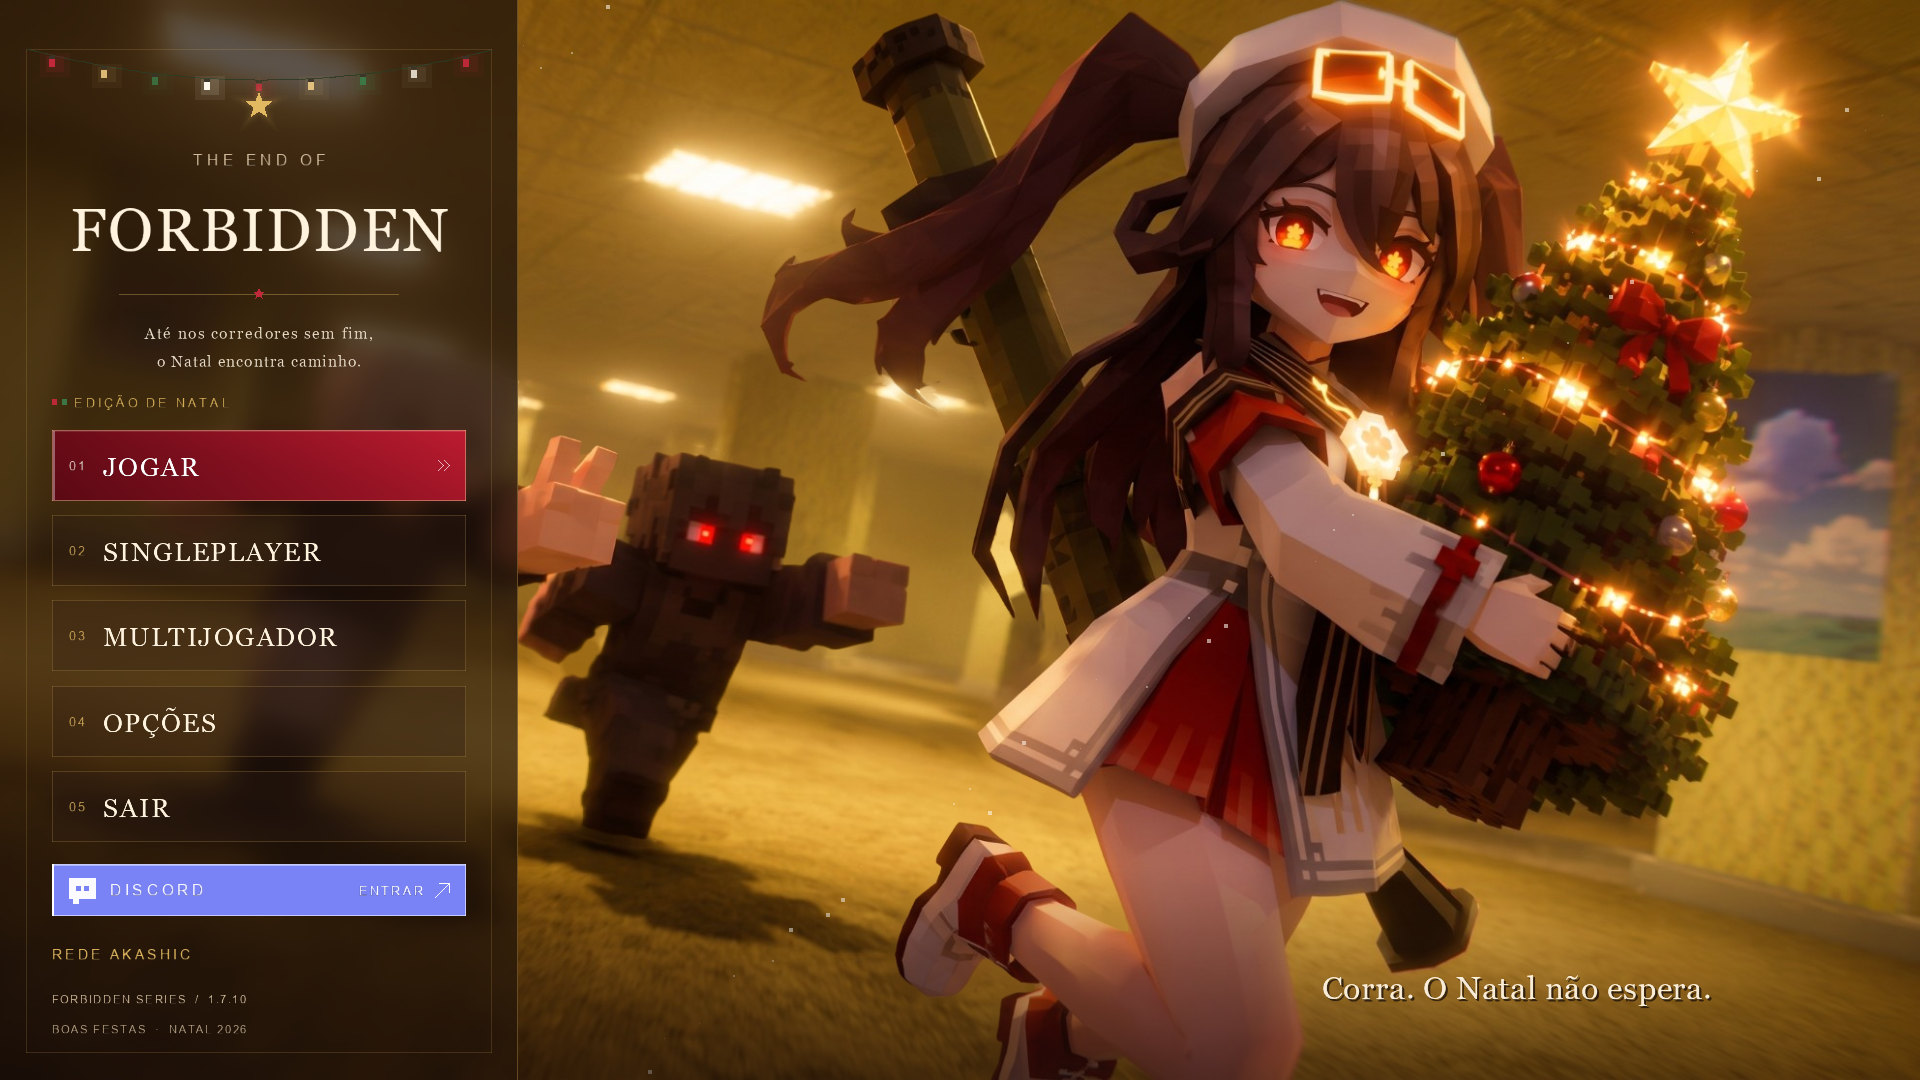
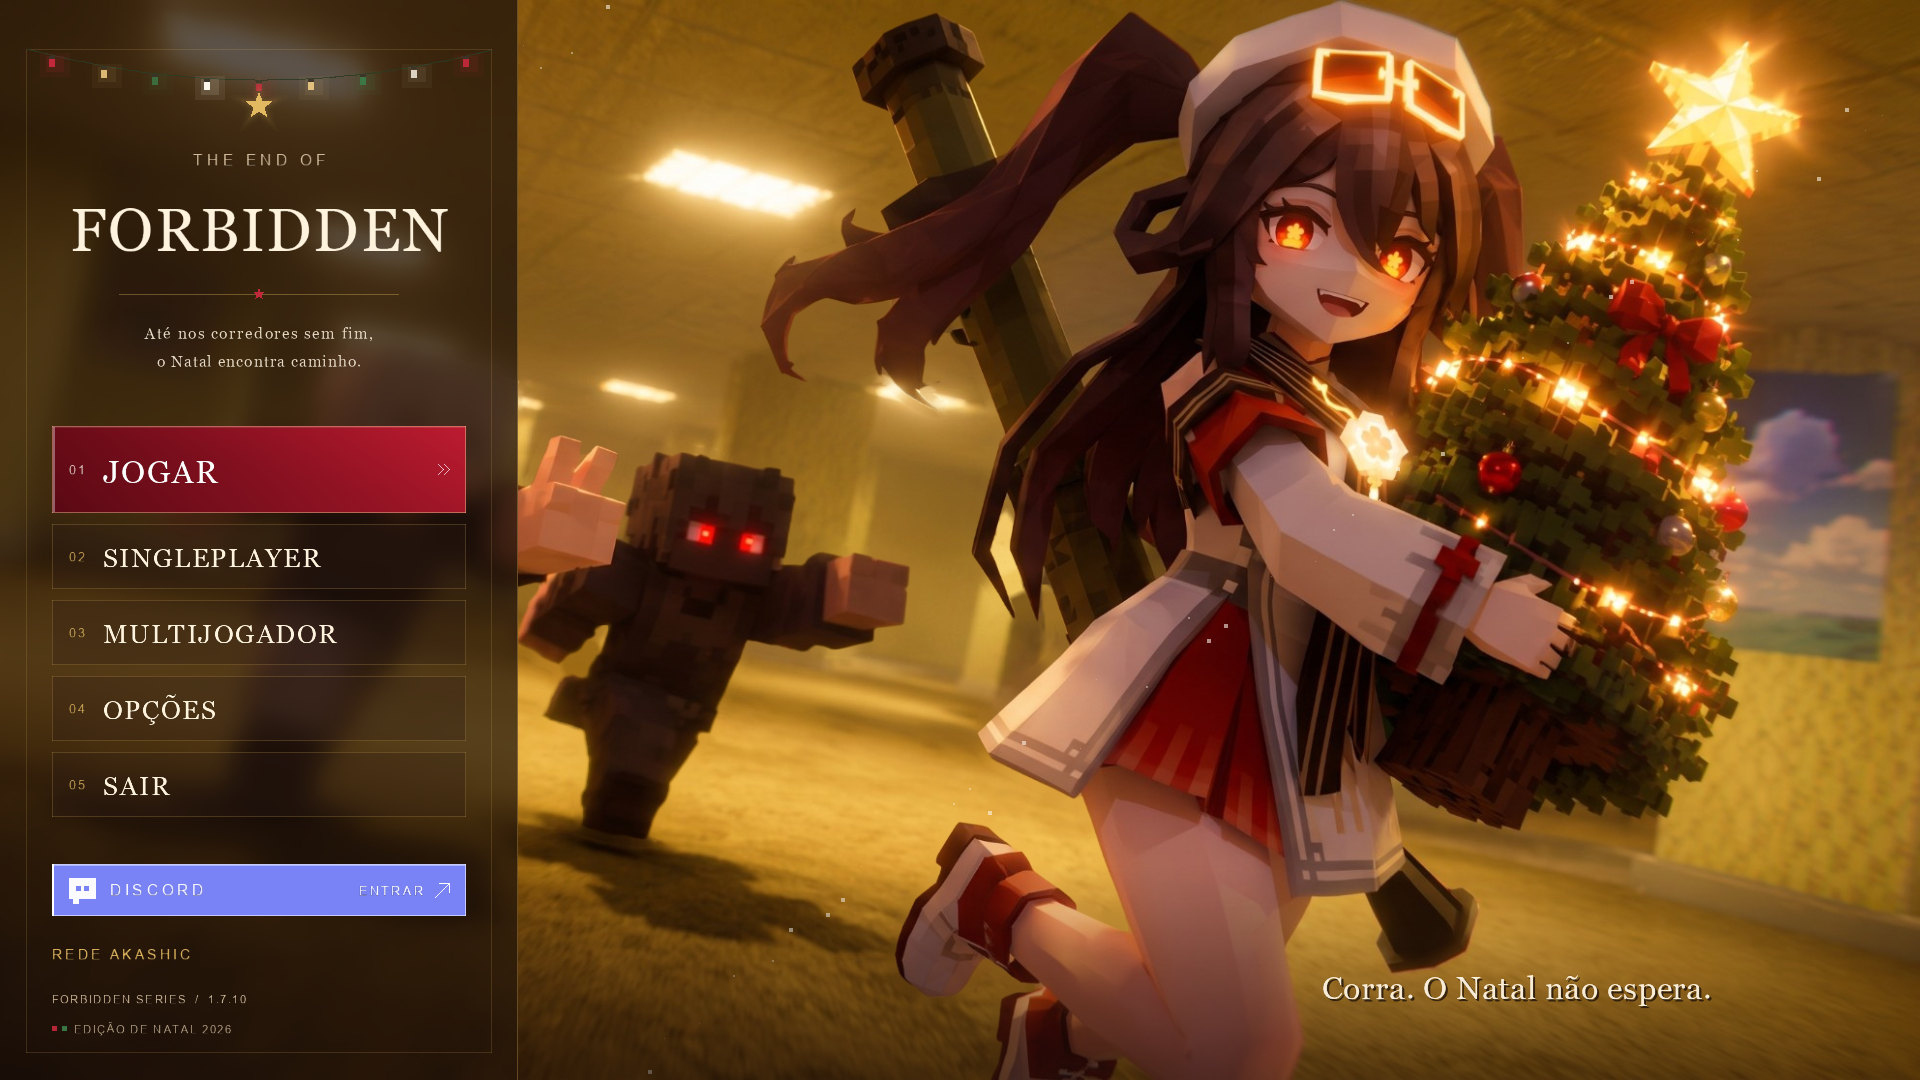
feat(menu): grupo de botoes centralizado e Jogar mais alto (alpha.8)
[DOC] Ajustes do dono (17/11/2026), escolhidos entre duas amostras:
- opcao B: os 5 botoes ficam centralizados no espaco livre entre o fim do
  lema (35% da altura; linha do header quando o lema nao aparece) e o botao
  do Discord, que nao muda de lugar;
- Jogar mais alto (8,1% contra 6,0%, texto 23 contra 19), incluido no
  calculo da centralizacao;
- "EDICAO DE NATAL" vai para o rodape ("EDICAO DE NATAL 2026").

PixelLayout: groupUpperBound/groupHeight/groupTop/heroHeight/buttonHeight(i);
a linha do header passa a ser desenhada em headerRuleY().

[LOG] PixelLayoutTests 1986 checagens (centralizacao <= 1,5 px em 10
resolucoes, Jogar mais alto, folga acima do grupo); nucleo e 11 suites com
failures=0; render com -Xlint:all -Werror; amostras atualizadas em
evidence/alpha8-multi-discord/.

Claude-Session: https://claude.ai/code/session_01ELhLZwBwQkuFCEsUJ3xDWT

diff --git a/src/main/java/br/com/redeakashic/cinematic/core/PixelLayout.java b/src/main/java/br/com/redeakashic/cinematic/core/PixelLayout.java
@@ -8,15 +8,36 @@ public final class PixelLayout {
         if(w<1||h<1||w>32768||h>32768)throw new IllegalArgumentException("Unsupported surface");
         width=w;height=h;sidebar=(int)Math.round(w*.27);unit=Math.max(.50,Math.min(2.1,Math.min(w/1366.0,h/768.0)));
     }
+    /**
+     * Fractions of the height: header rule under FORBIDDEN, end of the two-line tagline (shown when h>=600),
+     * button height, the taller Jogar button, the gap between buttons, and the Discord top.
+     */
+    static final double HEADER_RULE=.272,TAGLINE_END=.350,BUTTON=.060,HERO=.081,GAP=.010,DISCORD_TOP=.800;
     public double buttonX(){return Math.round(sidebar*.10);}
-    public double buttonY(int i){if(i<0||i>=MAIN)throw new IllegalArgumentException("index");return Math.round(height*.398+i*height*.079);}
+    /** Header rule (divider under the title); drawn by the renderer at exactly this row. */
+    public double headerRuleY(){return Math.round(height*HEADER_RULE);}
+    /** Upper bound of the free space: the end of the tagline when it is shown, else the header rule. */
+    public double groupUpperBound(){return height>=600?Math.round(height*TAGLINE_END):headerRuleY();}
+    /** Height of the five-button group (Jogar taller than the rest). */
+    public double groupHeight(){double gap=Math.round(height*GAP);return heroHeight()+(MAIN-1)*(gap+buttonHeight());}
+    /** Top of the group, centered in the free space between the tagline (or header rule) and the Discord button (owner choice B, 17/11). */
+    public double groupTop(){return Math.round(groupUpperBound()+(discordY()-groupUpperBound()-groupHeight())/2);}
+    public double buttonY(int i){
+        if(i<0||i>=MAIN)throw new IllegalArgumentException("index");
+        double gap=Math.round(height*GAP);
+        return i==0?groupTop():groupTop()+heroHeight()+gap+(i-1)*(buttonHeight()+gap);
+    }
     public double buttonWidth(){return sidebar-2*buttonX();}
-    public double buttonHeight(){return Math.max(1,Math.round(height*.066));}
+    /** Regular main-button height (Singleplayer..Sair). */
+    public double buttonHeight(){return Math.max(1,Math.round(height*BUTTON));}
+    /** The Jogar button is taller, to stand out. */
+    public double heroHeight(){return Math.max(1,Math.round(height*HERO));}
+    public double buttonHeight(int i){if(i<0||i>=MAIN)throw new IllegalArgumentException("index");return i==0?heroHeight():buttonHeight();}
     /** Compact Discord button: same column, shorter, between the last main button and the footer. */
-    public double discordY(){return Math.round(height*.800);}
+    public double discordY(){return Math.round(height*DISCORD_TOP);}
     public double discordHeight(){return Math.max(1,Math.round(height*.048));}
     public double targetY(int i){if(i<0||i>=TARGETS)throw new IllegalArgumentException("index");return i==DISCORD?discordY():buttonY(i);}
-    public double targetHeight(int i){if(i<0||i>=TARGETS)throw new IllegalArgumentException("index");return i==DISCORD?discordHeight():buttonHeight();}
+    public double targetHeight(int i){if(i<0||i>=TARGETS)throw new IllegalArgumentException("index");return i==DISCORD?discordHeight():buttonHeight(i);}
     public int hit(double x,double y){
         if(!Double.isFinite(x)||!Double.isFinite(y))return -1;
         if(x<buttonX()||x>=buttonX()+buttonWidth())return -1;

diff --git a/src/main/java/br/com/redeakashic/cinematic/render/NativeVisuals.java b/src/main/java/br/com/redeakashic/cinematic/render/NativeVisuals.java
@@ -80,22 +80,22 @@ public final class NativeVisuals implements AutoCloseable {
         star(c,h*.098,10*s,GOLD,.95,motion?.85+.15*Math.sin(age*1.1):.9);
         center("THE END OF",c,h*.140,11*s,p*.80,false,3*s,MUTED,1);
         center("FORBIDDEN",c,h*.180,43*s,p*.86,true,1.3*s,IVORY,1);
-        rect(p*.23,h*.272,p*.54,1,GOLD,.35);star(c,h*.272,4.5*s,RED,.95,0);
+        double rule=layout.pixels.headerRuleY();rect(p*.23,rule,p*.54,1,GOLD,.35);star(c,rule,4.5*s,RED,.95,0);
         if(h>=600){center("Até nos corredores sem fim,",c,h*.300,11*s,p*.83,true,1*s,IVORY,.88);center("o Natal encontra caminho.",c,h*.326,11*s,p*.83,true,.7*s,IVORY,.88);}
-        rect(p*.10,h*.366+3*s,4*s,4*s,RED,.9);rect(p*.10+7*s,h*.366+3*s,4*s,4*s,PINE,.95);
-        text("EDIÇÃO DE NATAL",p*.10+16*s,h*.366,9*s,p*.7,false,2*s,GOLD,.88);
         String[] actions={"JOGAR","SINGLEPLAYER","MULTIJOGADOR","OPÇÕES","SAIR"};
         for(int i=0;i<PixelLayout.MAIN;i++){
-            double x=layout.pixels.buttonX(),y=layout.pixels.buttonY(i),bw=layout.pixels.buttonWidth(),bh=layout.pixels.buttonHeight(),hot=Math.max(0,Math.min(1,highlights[i]));
+            double x=layout.pixels.buttonX(),y=layout.pixels.buttonY(i),bw=layout.pixels.buttonWidth(),bh=layout.pixels.buttonHeight(i),hot=Math.max(0,Math.min(1,highlights[i]));
             if(i==0)HeroButton.draw(x,y,bw,bh,age,hot,playPressAge,visibility,motion&&heroAnimation);
             else{rect(x,y,bw,bh,SLATE,(.30+hot*.40)*visibility);outline(x,y,bw,bh,GOLD,(.20+hot*.50)*visibility);if(hot>.005){rect(x,y,2,bh,RED,hot*visibility);rect(x+2,y,1,bh,GOLD,hot*.6*visibility);}}
             text("0"+(i+1),x+12*s,y+(bh-10*s)/2,9*s,24*s,false,1*s,i==0?0xFFF5E8:GOLD,visibility*.88);
-            text(actions[i],x+36*s,y+(bh-19*s)/2-1,19*s,bw-(i==0?67:48)*s,true,1*s,i==0?0xFFFFFF:IVORY,visibility);
+            double label=i==0?23*s:19*s;
+            text(actions[i],x+36*s,y+(bh-label)/2-1,label,bw-(i==0?67:48)*s,true,1*s,i==0?0xFFFFFF:IVORY,visibility);
         }
         discord(layout.pixels.buttonX(),layout.pixels.discordY(),layout.pixels.buttonWidth(),layout.pixels.discordHeight(),s,Math.max(0,Math.min(1,highlights[PixelLayout.DISCORD])),visibility);
         text("REDE AKASHIC",p*.10,h*.877,10*s,p*.80,false,2*s,GOLD,1);
         text("FORBIDDEN SERIES  /  1.7.10",p*.10,h*.919,8*s,p*.80,false,1*s,MUTED,1);
-        text("BOAS FESTAS  ·  NATAL 2026",p*.10,h*.947,8*s,p*.80,false,1*s,MUTED,.85);
+        rect(p*.10,h*.947+2*s,4*s,4*s,RED,.9);rect(p*.10+7*s,h*.947+2*s,4*s,4*s,PINE,.95);
+        text("EDIÇÃO DE NATAL 2026",p*.10+16*s,h*.947,8*s,p*.74,false,1*s,MUTED,.85);
         shadeV(p,h*.80,w-p,h*.20,INK,0,.55);
         quote("Corra. O Natal não espera.",w*.79,h*.897,23*s,w*.37,.3*s,s,1);
     }

diff --git a/src/test/java/br/com/redeakashic/cinematic/core/PixelLayoutTests.java b/src/test/java/br/com/redeakashic/cinematic/core/PixelLayoutTests.java
@@ -12,6 +12,12 @@ public final class PixelLayoutTests {
                 check(i==PixelLayout.TARGETS-1||y+h<p.targetY(i+1),"nonoverlap");
                 check(i==PixelLayout.DISCORD||p.targetY(i)==p.buttonY(i),"main buttons");}
             check(p.discordHeight()<p.buttonHeight()||p.height<40,"discord compact");
+            double above=p.buttonY(0)-p.groupUpperBound(),below=p.discordY()-(p.buttonY(PixelLayout.MAIN-1)+p.buttonHeight(PixelLayout.MAIN-1));
+            check(Math.abs(above-below)<=1.5,"group centered in the free space "+s[0]+"x"+s[1]+" "+above+"/"+below);
+            check(above>=p.height*.02,"breathing room above the group");
+            check(p.groupUpperBound()==(p.height>=600?Math.round(p.height*.350):p.headerRuleY()),"upper bound: tagline end or header rule");
+            check(p.heroHeight()>p.buttonHeight()*1.25||p.height<60,"Jogar taller");
+            check(Math.abs(p.groupHeight()-(p.buttonY(PixelLayout.MAIN-1)+p.buttonHeight(PixelLayout.MAIN-1)-p.buttonY(0)))<1e-9,"group height consistent");
             check(p.hit(Double.NaN,1)==-1,"NaN input");check(p.hit(-1,-1)==-1,"outside input");
         }
         for(int w=640;w<=3840;w+=73)for(int h=480;h<=2160;h+=97){PixelLayout p=new PixelLayout(w,h);check(p.buttonX()+p.buttonWidth()<=p.sidebar,"sweep no overflow");check(p.discordY()+p.discordHeight()<h*.87,"sweep footer safe");}

diff --git a/docs/CHANGELOG.md b/docs/CHANGELOG.md
@@ -9,7 +9,7 @@ Detalhes e evidências por versão: `CRONOLOGIA.md` §2–3. Hashes: `LINEAGE.md
 - O menu continua sem URL/comando arbitrário: `MenuAction` é fechado e o único link é a constante testada.
 - Telas de multijogador (`GuiMultiplayer`, `GuiScreenAddServer`, `GuiScreenServerList`) entram nas allow-lists exatas do tema e da BGM do menu.
 - Correção: a tela "Conectando" com tema mostrava sempre `br2.xmxcloud.net:10511`; agora mostra o servidor que está sendo de fato conectado (`Minecraft.func_147104_D`), o que importa para servidores da lista.
-- Layout: 5 botões a 39,8 % da altura (passo 7,9 %, altura 6,6 %) e o Discord a 80 %; "EDIÇÃO DE NATAL" sobe para 36,6 %.
+- Layout (ajustes do dono, 17/11): os 5 botões ficam **centralizados no espaço livre** entre o fim do lema (35 % da altura; a linha do header, 27,2 %, quando o lema não aparece) e o botão do Discord (80 %), opção "B". **Jogar mais alto** (8,1 % contra 6,0 % dos demais, texto 23 contra 19), já incluído na centralização (diferença ≤ 1 px, testada em `PixelLayoutTests`). O rótulo "EDIÇÃO DE NATAL" foi para o rodapé ("EDIÇÃO DE NATAL 2026", no lugar de "BOAS FESTAS · NATAL 2026", que cortava em 854/1024).
 - Status: núcleo e 11 suítes PASSOU (CoreTests 49 cenários); amostras pelo código real; JAR na CI do PR; **não rodou no jogo; aprovação do dono pendente.**
 
 ## [0.7.0-alpha.7] — 2026-11-17 — Edição de Natal + AkashicMixer (candidata)

diff --git a/docs/CRONOLOGIA.md b/docs/CRONOLOGIA.md
@@ -201,6 +201,7 @@ Fato sobre a música: o usuário forneceu `BGM.mp3` (SHA-256 `1e7a442d…`, 6.47
 * O Multijogador volta depois de ter sido retirado na R04 (20/09) — decisão nova do dono, não regressão.
 * `MenuAction` ganha `MULTIPLAYER` e `DISCORD`; o link é uma constante (`MenuLinks`) aberta como no chat vanilla (`java.awt.Desktop`, depois `Sys.openURL`).
 * Tela de conexão passa a mostrar o endereço real do servidor.
+* Ajuste pedido pelo dono: grupo de botões centralizado no espaço livre entre o lema e o Discord (escolheu a opção B entre duas amostras), Jogar mais alto, "EDIÇÃO DE NATAL" no rodapé. [DOC]
 
 ---
 
